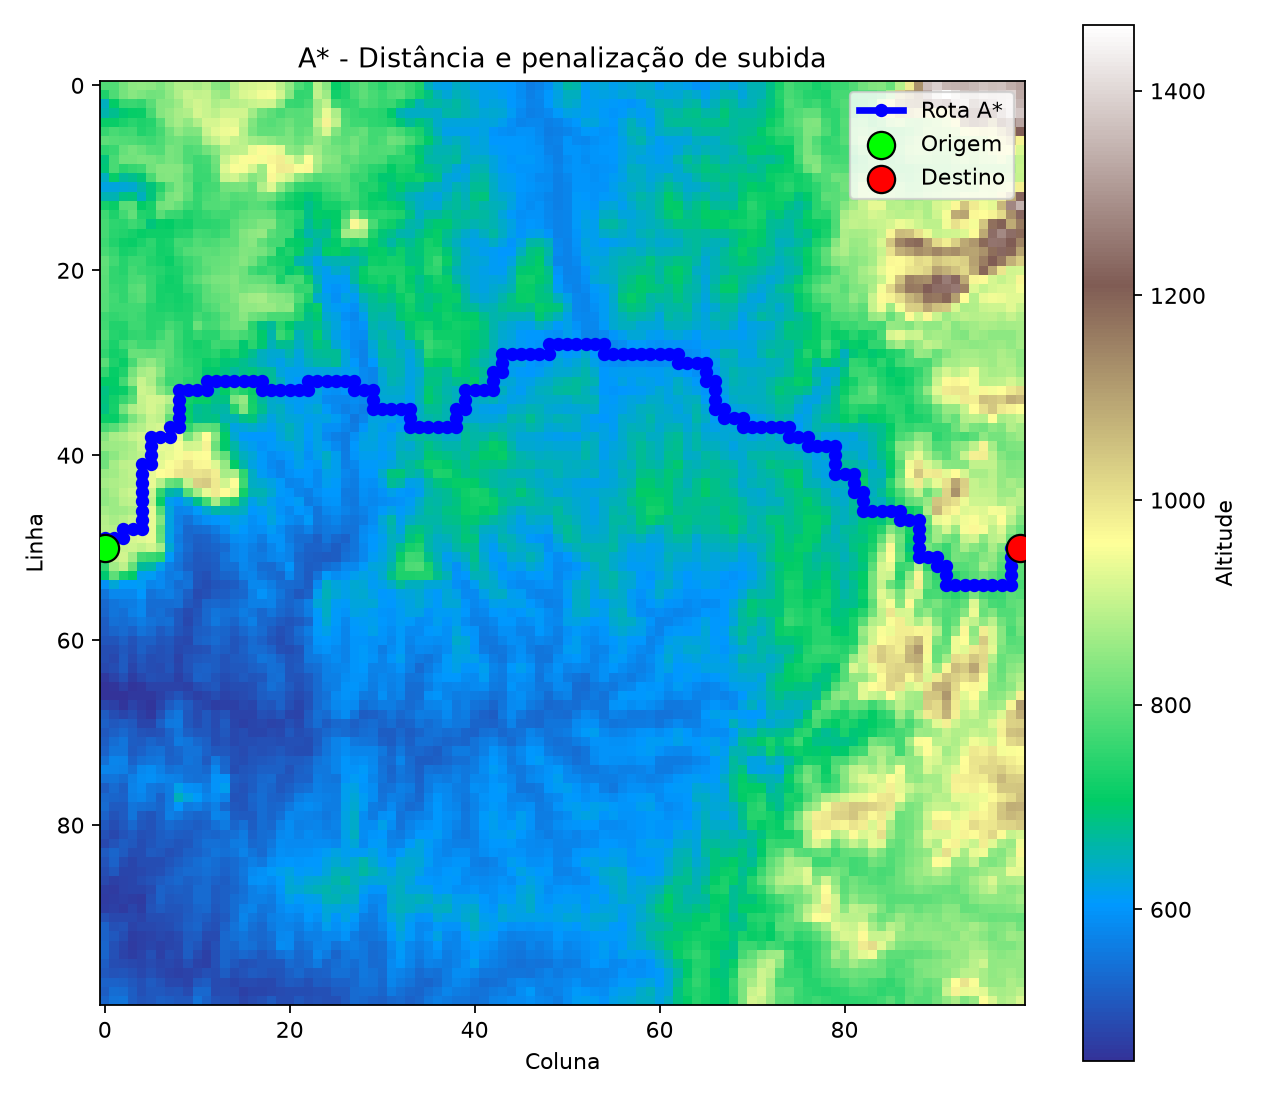
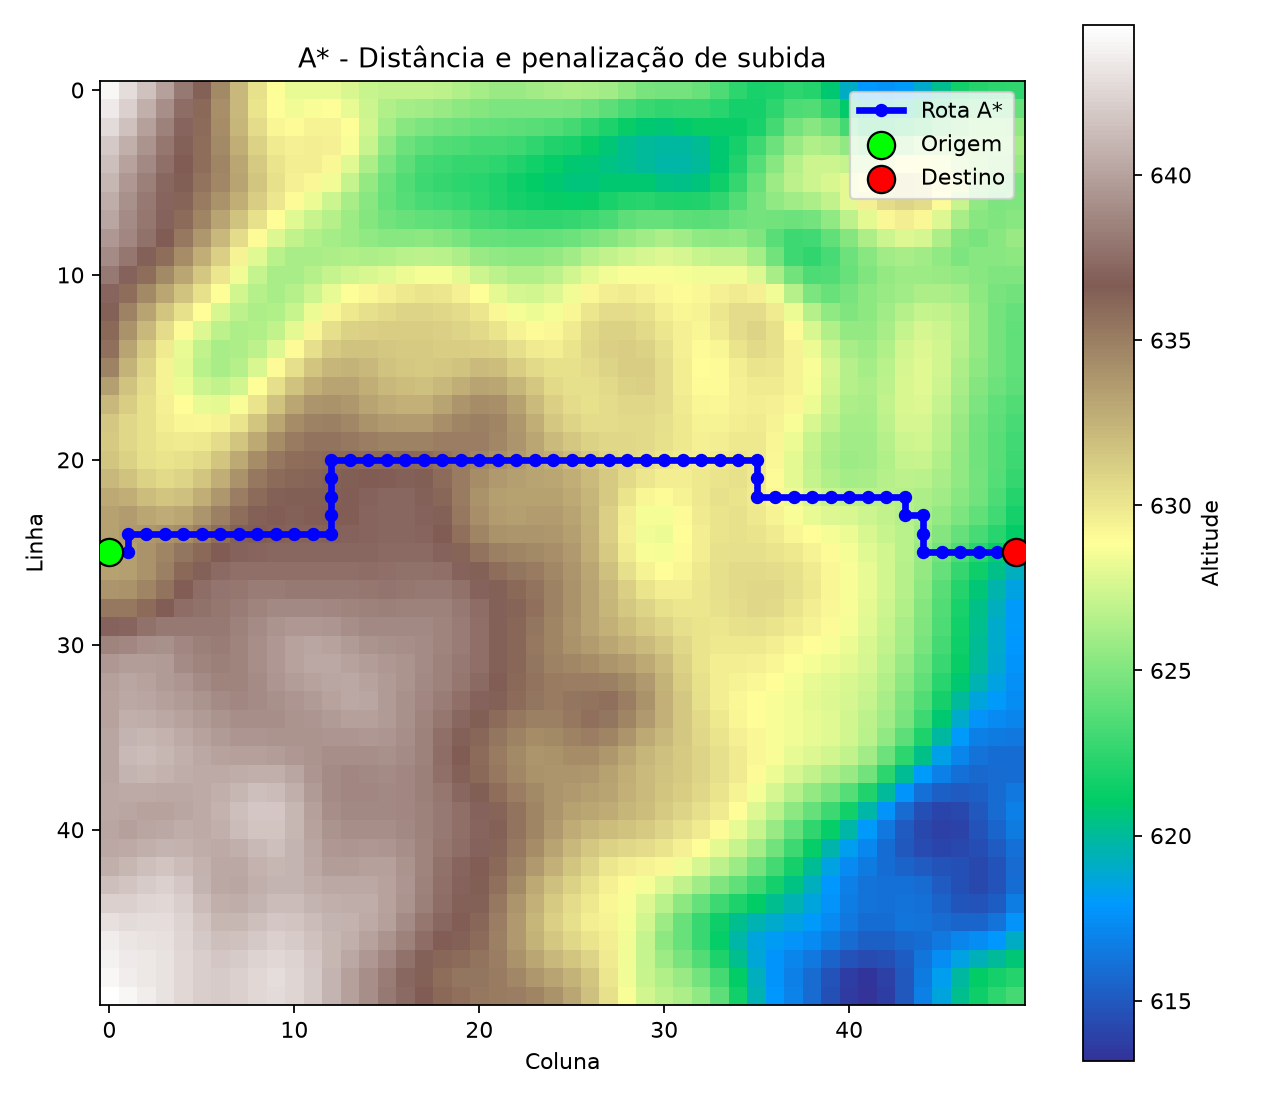
Fix: ajustes na implementação do grafico

diff --git a/src/terrain.py b/src/terrain.py
@@ -1,4 +1,5 @@
 from dataclasses import dataclass
+from math import cos, radians
 from pathlib import Path
 
 import numpy as np
@@ -12,9 +13,16 @@ class TerrainData:
     bounds: tuple[float, float, float, float]
     pixel_size: tuple[float, float]
     original_shape: tuple[int, int]
+    area_size_m: float | None = None
 
 
-def load_topodata(input_path: str | Path, target_size: int = 50) -> TerrainData:
+def load_topodata(
+    input_path: str | Path,
+    target_size: int = 50,
+    center_lat: float | None = None,
+    center_lon: float | None = None,
+    area_size_m: float | None = None,
+) -> TerrainData:
     """Lê e reduz um GeoTIFF TOPODATA para uma matriz quadrada."""
     try:
         import rasterio
@@ -30,13 +38,64 @@ def load_topodata(input_path: str | Path, target_size: int = 50) -> TerrainData:
     if target_size < 2:
         raise ValueError("target_size precisa ser pelo menos 2.")
 
+    crop_values = (center_lat, center_lon, area_size_m)
+    if any(value is not None for value in crop_values) and not all(
+        value is not None for value in crop_values
+    ):
+        raise ValueError(
+            "Para recortar, informe center_lat, center_lon e area_size_m juntos."
+        )
+    if area_size_m is not None and area_size_m <= 0:
+        raise ValueError("area_size_m precisa ser positivo.")
+
     with rasterio.open(path) as dataset:
         if dataset.count < 1:
             raise ValueError("O GeoTIFF não possui banda de elevação.")
 
         original_shape = (dataset.height, dataset.width)
+        window = None
+        selected_bounds = dataset.bounds
+
+        if center_lat is not None and center_lon is not None and area_size_m is not None:
+            from rasterio.warp import transform_bounds
+            from rasterio.windows import Window, bounds as window_bounds, from_bounds
+
+            half_size_m = area_size_m / 2.0
+            latitude_delta = half_size_m / 111_320.0
+            longitude_scale = 111_320.0 * cos(radians(center_lat))
+            if longitude_scale <= 0:
+                raise ValueError("Latitude inválida para o recorte.")
+            longitude_delta = half_size_m / longitude_scale
+
+            wgs84_bounds = (
+                center_lon - longitude_delta,
+                center_lat - latitude_delta,
+                center_lon + longitude_delta,
+                center_lat + latitude_delta,
+            )
+            raster_bounds = transform_bounds(
+                "EPSG:4326", dataset.crs, *wgs84_bounds, densify_pts=21
+            )
+
+            if (
+                raster_bounds[0] < dataset.bounds.left
+                or raster_bounds[1] < dataset.bounds.bottom
+                or raster_bounds[2] > dataset.bounds.right
+                or raster_bounds[3] > dataset.bounds.top
+            ):
+                raise ValueError(
+                    "A área solicitada ultrapassa os limites desta folha TOPODATA."
+                )
+
+            window = from_bounds(*raster_bounds, transform=dataset.transform)
+            window = window.round_offsets().round_lengths()
+            full_window = Window(0, 0, dataset.width, dataset.height)
+            window = window.intersection(full_window)
+            selected_bounds = window_bounds(window, dataset.transform)
+
         masked = dataset.read(
             1,
+            window=window,
             out_shape=(target_size, target_size),
             resampling=Resampling.bilinear,
             masked=True,
@@ -55,17 +114,13 @@ def load_topodata(input_path: str | Path, target_size: int = 50) -> TerrainData:
             elevation=elevation,
             source_path=path.resolve(),
             crs=dataset.crs.to_string() if dataset.crs else None,
-            bounds=(
-                float(dataset.bounds.left),
-                float(dataset.bounds.bottom),
-                float(dataset.bounds.right),
-                float(dataset.bounds.top),
-            ),
+            bounds=tuple(float(value) for value in selected_bounds),
             pixel_size=(
                 abs(float(dataset.transform.a)) * dataset.width / target_size,
                 abs(float(dataset.transform.e)) * dataset.height / target_size,
             ),
             original_shape=original_shape,
+            area_size_m=area_size_m,
         )
 
 

diff --git a/src/main.py b/src/main.py
@@ -36,6 +36,12 @@ def parse_args() -> argparse.Namespace:
         "--climb-weight", type=float, default=3.0,
         help="Peso aplicado ao ganho de altitude (padrão: 3).",
     )
+    parser.add_argument("--center-lat", type=float, help="Latitude central da fazenda.")
+    parser.add_argument("--center-lon", type=float, help="Longitude central da fazenda.")
+    parser.add_argument(
+        "--area-m", type=float, default=None,
+        help="Lado, em metros, da área quadrada recortada (ex.: 1500).",
+    )
     return parser.parse_args()
 
 
@@ -43,7 +49,13 @@ def main() -> None:
     args = parse_args()
 
     if args.topodata:
-        terrain_data = load_topodata(args.topodata, target_size=args.size)
+        terrain_data = load_topodata(
+            args.topodata,
+            target_size=args.size,
+            center_lat=args.center_lat,
+            center_lon=args.center_lon,
+            area_size_m=args.area_m,
+        )
         terrain = terrain_data.elevation
         output_prefix = "topodata"
         print("GeoTIFF TOPODATA carregado!")
@@ -51,6 +63,12 @@ def main() -> None:
         print(f"Dimensão original: {terrain_data.original_shape}")
         print(f"Dimensão utilizada: {terrain.shape}")
         print(f"CRS: {terrain_data.crs or 'não informado'}")
+        print(f"Limites utilizados: {terrain_data.bounds}")
+        if terrain_data.area_size_m:
+            print(
+                f"Área recortada: {terrain_data.area_size_m:.0f} m × "
+                f"{terrain_data.area_size_m:.0f} m"
+            )
         print(f"Altitude mínima: {terrain.min():.2f} m")
         print(f"Altitude máxima: {terrain.max():.2f} m")
     else:

diff --git a/tests/test_terrain.py b/tests/test_terrain.py
@@ -4,6 +4,7 @@ import numpy as np
 import pytest
 import rasterio
 from rasterio.transform import from_origin
+from rasterio.warp import transform
 
 from src.terrain import load_topodata
 
@@ -48,3 +49,33 @@ def test_load_topodata_rejects_invalid_size(tmp_path: Path):
 
     with pytest.raises(ValueError, match="pelo menos 2"):
         load_topodata(path, target_size=1)
+
+
+def test_load_topodata_crops_area_around_coordinate(tmp_path: Path):
+    source = np.arange(10000, dtype=np.float32).reshape(100, 100)
+    path = tmp_path / "terrain.tif"
+    write_geotiff(path, source)
+
+    longitude, latitude = transform(
+        "EPSG:31983", "EPSG:4326", [501500], [7498500]
+    )
+
+    result = load_topodata(
+        path,
+        target_size=20,
+        center_lat=latitude[0],
+        center_lon=longitude[0],
+        area_size_m=1000,
+    )
+
+    assert result.elevation.shape == (20, 20)
+    assert result.area_size_m == 1000
+
+
+def test_load_topodata_requires_complete_crop_parameters(tmp_path: Path):
+    source = np.ones((3, 3), dtype=np.float32)
+    path = tmp_path / "terrain.tif"
+    write_geotiff(path, source)
+
+    with pytest.raises(ValueError, match="informe"):
+        load_topodata(path, center_lat=-22.5)
